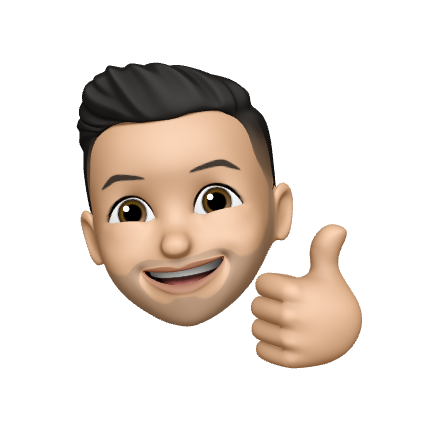
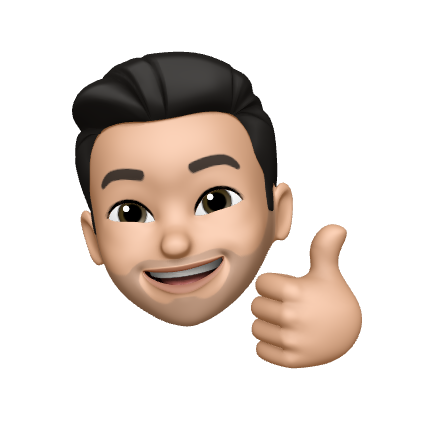
Add: social meta tag and replace memoji

Changed region(s): [[0.1544, 0.1235, 0.6793, 0.5558], [0.3705, 0.6176, 0.4941, 0.6485]]

diff --git a/pages/index.js b/pages/index.js
@@ -8,6 +8,22 @@ export default function Home() {
   return (
     <div className={components.container}>
       <Head>
+        <meta name="viewport" content="width=device-width, initial-scale=1" />
+        <meta charSet="utf-8" />
+        <meta property="og:url" content={'https://ilhambara.vercel.app/'} key="ogurl" />
+        <meta property="og:image" content={'https://res.cloudinary.com/drixfgugx/image/upload/v1620498970/web-v3/og-image_zzoxrr.png'} key="ogimage" />
+        <meta property="og:site_name" content={'Ilham Bara | Next Portfolio'} key="ogsitename" />
+        <meta property="og:title" content={'Portfolio Website'} key="ogtitle" />
+        <meta
+          property="og:description"
+          content={
+            "Hi, I'm passionately curious about anything related to web development. I usually contribute to open source projects, exploring some useful resources, and taking any courses to rank up my skills. Also working on paid projects if there's opportunity."
+          }
+          key="ogdesc"
+        />
+        <meta name="twitter:card" content="summary_large_image" />
+        <meta name="twitter:site" content={'@zgve679jdv'} />
+        <meta name="twitter:creator" content={'@zgve679jdv'} />
         <title>Ilham Bara | Next Portfolio</title>
         <link rel="icon" href="/favicon.ico" />
       </Head>

diff --git a/README.md b/README.md
@@ -2,7 +2,7 @@
 
 Getting started to Next.js for my portfolio.
 
-![Og image](https://res.cloudinary.com/drixfgugx/image/upload/v1620488401/assets/og-image_oib8ij.png)
+![Og image](https://res.cloudinary.com/drixfgugx/image/upload/v1620498970/web-v3/og-image_zzoxrr.png)
 
 ---
 
